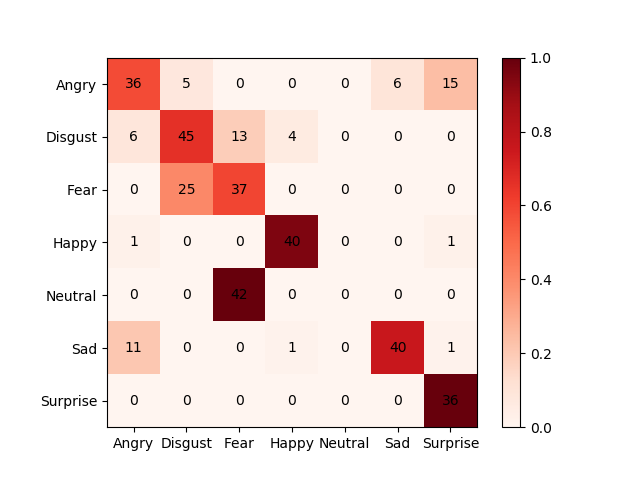
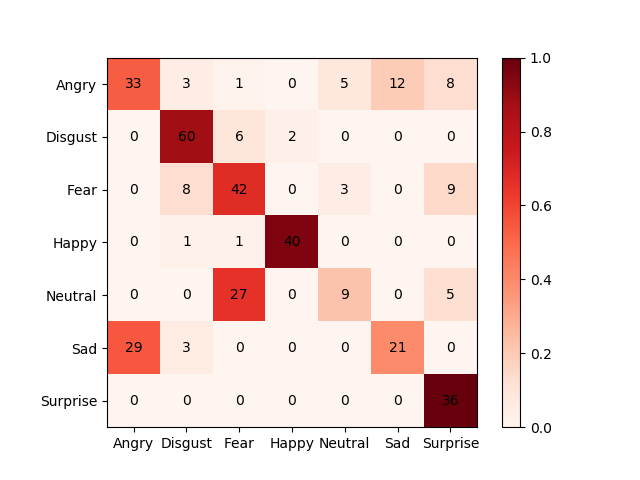
Add Inception feature extraction

diff --git a/src/train_lstm.py b/src/train_lstm.py
@@ -9,7 +9,7 @@ from keras.callbacks import TensorBoard, ModelCheckpoint
 from train_util import load_data_lstm
 import os
 
-epochs = 100
+epochs = 50
 batch_size = 32
 lstm_unit = 512
 hidden_unit = 1024
@@ -35,19 +35,20 @@ def train(model, X_train, y_train, X_val, y_val, X_test, y_test):
     model.fit(X_train, y_train,
               epochs=epochs,
               batch_size=batch_size,
-              validation_data=(X_val, y_val),
+              validation_data=(X_test, y_test),
               callbacks=callbacks)
     model = load_model(model_file)
-    score = model.evaluate(X_test, y_test)
+    score = model.evaluate(X_val, y_val)
     print(score)
     return model
 
 if __name__ == '__main__':
-#     if sub_dir not in os.listdir('../LSTM/'):
-#         os.mkdir('../LSTM/' + sub_dir)
+    child_dir = 'LSTM_' + str(lstm_unit) + '_' + str(hidden_unit)
+    if child_dir not in os.listdir('../LSTM/'):
+        os.mkdir('../LSTM/' + sub_dir)
     X_train, y_train, X_val, y_val, X_test, y_test = load_data_lstm()
-#     model = get_network(X_train)
-#     model = train(model, X_train, y_train, X_val, y_val, X_test, y_test)
-    model = load_model(model_file)
-    score = model.evaluate(X_test, y_test)
-    print(score)
+    model = get_network(X_train)
+    model = train(model, X_train, y_train, X_val, y_val, X_test, y_test)
+#     model = load_model(model_file)
+#     score = model.evaluate(X_test, y_test)
+    

diff --git a/src/extract_feature2.py b/src/extract_feature2.py
@@ -4,7 +4,8 @@ Created on Jun 26, 2018
 @author: User
 '''
 import numpy as np
-from keras.applications.vgg16 import VGG16, preprocess_input
+from keras.applications.inception_v3 import InceptionV3, preprocess_input
+from keras.models import Model
 from keras.preprocessing import image
 import os
 
@@ -30,6 +31,7 @@ def get_feature_sequence(model):
                 sequence.append(features)
             # Save the sequence.)
             np.save(path, sequence)
+        print('{} sequences extracted'.format(emotion))
 
 def save_feature_sequence():
     X_train, y_train = [],[] 
@@ -81,7 +83,8 @@ def rescale_list(input_list, size):
     return output[:size]
 
 if __name__ == '__main__':
-#     model = VGG16(include_top=False, weights='imagenet')
-#     get_feature_sequence(model)
+    base_model = InceptionV3(include_top=True, weights='imagenet')
+    model = Model(inputs=base_model.input, outputs=base_model.get_layer('avg_pool').output)
+    get_feature_sequence(model)
     save_feature_sequence()
     print('Sequences saved')

diff --git a/src/evaluate.py b/src/evaluate.py
@@ -14,18 +14,18 @@ import os
 if __name__ == '__main__':
     #classify each image in the validation set
     emotions = ['Angry', 'Disgust', 'Fear', 'Happy', 'Neutral', 'Sad', 'Surprise']
-    loaded_model = load_model('../LSTM/LSTM_256_1024.h5')
+    loaded_model = load_model('../LSTM/LSTM_512_1024/LSTM_512_1024.h5')
     print("Loaded model from disk")
     
     # evaluate loaded model on test data
     loaded_model.compile(optimizer='adam',
                   loss='categorical_crossentropy', metrics=['accuracy'])
-    path = '../dataset/Test/'
+    path = '../dataset/Validation/'
     Accurate = 0
     counter = 0
     labelsValues = []
     PredictedValues = []
-    test_data = np.load(open('../dataset/bottleneck_features_test.npy', 'rb'))
+    test_data = np.load(open('../dataset/bottleneck_features_validation.npy', 'rb'))
     counterImage = 0
     for emotion in emotions:
         for file in os.listdir(path+emotion):
